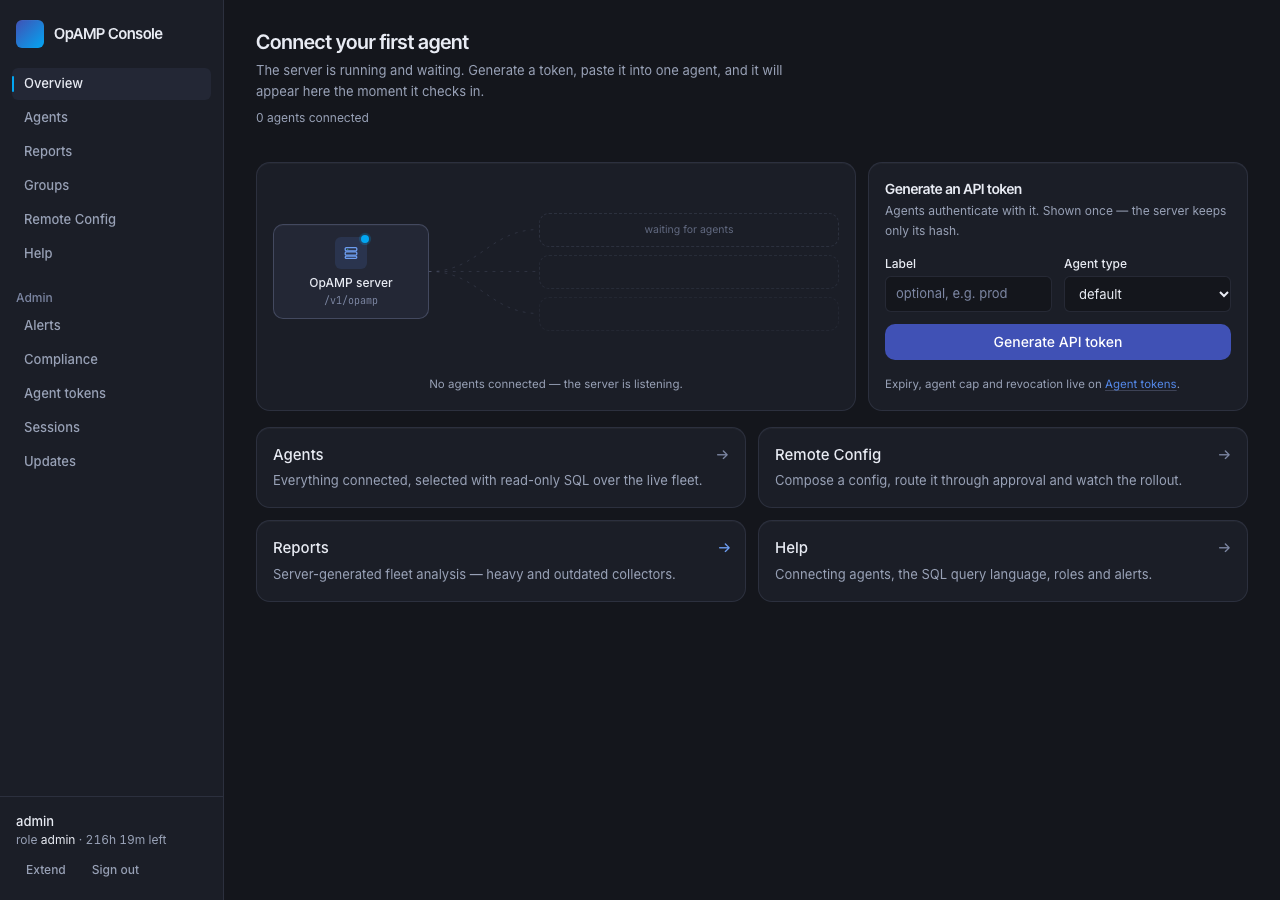
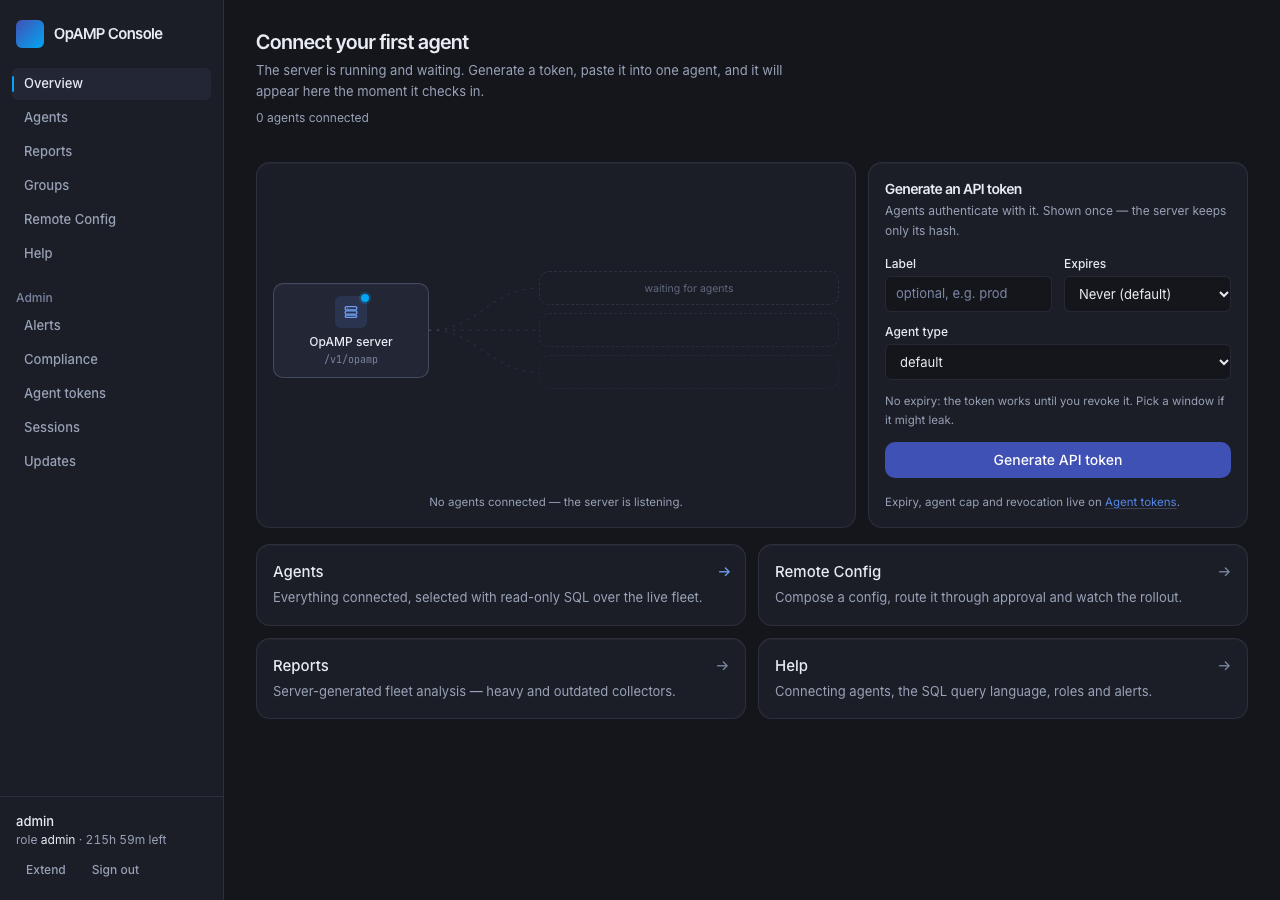
collector: fix config-with-telemetry for the current collector + docker
Reverts the unrequested new config file (the previous commit) and fixes the
existing one instead, keeping the agent's identity and pipelines as they were:

- endpoints read ${env:OPAMP_SERVER_URL:-host.docker.internal...} and
  ${env:OPAMP_METRICS_URL:-...} so the container works with no setup and a
  native run overrides both for 127.0.0.1
- receivers bind 0.0.0.0:4347/4348 so published ports reach them
- filelog -> file_log (0.165 deprecation) reading /var/log/collector/file.log
- drop keys this collector rejects: capabilities.accepts_restart_command,
  protocols.http.transport, idle_timeout, keep_alives_enabled

Validated with otelcol-contrib validate (0.165.0) and run end-to-end: the
agent connects, reports healthy, no warnings.

Overview quickstart mint form: expiry picker whose default option reads
'Never (default)', a hint line explaining what no expiry means, and the
minted card states 'Expires <date>'. e2e covers the default and a chosen
window. Also de-races the nav not-found spec (anonymous click-back lands on
/login by design).

diff --git a/web/src/components/ConnectFirstAgent.tsx b/web/src/components/ConnectFirstAgent.tsx
@@ -44,6 +44,9 @@ export function ConnectFirstAgent() {
 
   const [label, setLabel] = useState("");
   const [agentType, setAgentType] = useState("");
+  // Empty string = the server's own default (a token that never expires). The
+  // option text says so; an operator should not have to know the default.
+  const [expiresDays, setExpiresDays] = useState("");
   const [minted, setMinted] = useState<MintedToken | null>(null);
   const [mintError, setMintError] = useState<string | null>(null);
   const [checking, setChecking] = useState(false);
@@ -53,6 +56,7 @@ export function ConnectFirstAgent() {
       mintFleetToken({
         label: label.trim() || undefined,
         agent_type: agentType || undefined,
+        expires_in_days: expiresDays ? Number(expiresDays) : undefined,
       }),
     onSuccess: (result) => {
       setMinted(result);
@@ -104,21 +108,43 @@ export function ConnectFirstAgent() {
               />
             </label>
             <label className="flex flex-col gap-1 text-xs">
-              <span className="font-medium">Agent type</span>
+              <span className="font-medium">Expires</span>
               <select
-                value={agentType}
-                onChange={(e) => setAgentType(e.target.value)}
+                value={expiresDays}
+                onChange={(e) => setExpiresDays(e.target.value)}
                 className="field"
               >
-                <option value="">default</option>
-                {(types.data?.types ?? []).map((t) => (
-                  <option key={t.name} value={t.name}>
-                    {t.display_name}
-                  </option>
-                ))}
+                <option value="">Never (default)</option>
+                <option value="1">In 1 day</option>
+                <option value="7">In 7 days</option>
+                <option value="30">In 30 days</option>
+                <option value="90">In 90 days</option>
+                <option value="365">In 365 days</option>
               </select>
             </label>
           </div>
+
+          <label className="flex flex-col gap-1 text-xs">
+            <span className="font-medium">Agent type</span>
+            <select
+              value={agentType}
+              onChange={(e) => setAgentType(e.target.value)}
+              className="field"
+            >
+              <option value="">default</option>
+              {(types.data?.types ?? []).map((t) => (
+                <option key={t.name} value={t.name}>
+                  {t.display_name}
+                </option>
+              ))}
+            </select>
+          </label>
+
+          <p className="text-[11.5px] leading-relaxed text-[var(--color-muted)]">
+            {expiresDays
+              ? `This token stops working in ${expiresDays} day${expiresDays === "1" ? "" : "s"}.`
+              : "No expiry: the token works until you revoke it. Pick a window if it might leak."}
+          </p>
 
           <Button type="submit" variant="primary" size="lg" disabled={mint.isPending || !canMint}>
             {mint.isPending ? "Generating…" : "Generate API token"}
@@ -151,7 +177,10 @@ export function ConnectFirstAgent() {
             </pre>
             <p className="mt-2 text-[11.5px] text-[var(--color-muted)]">
               Agents connect to{" "}
-              <code className="text-[var(--color-text)]">{minted.endpoint}</code>
+              <code className="text-[var(--color-text)]">{minted.endpoint}</code>.{" "}
+              {minted.expires_at
+                ? `Expires ${minted.expires_at.slice(0, 10)}.`
+                : "No expiry — revoke it when you are done."}
             </p>
           </div>
 

diff --git a/web/e2e/quickstart.spec.ts b/web/e2e/quickstart.spec.ts
@@ -30,10 +30,25 @@ test("an empty fleet lands on the quickstart with the token form inline", async 
   await expect(graphic.getByText("Server", { exact: false }).first()).toBeVisible();
   await expect(page.getByText("No agents connected — the server is listening.")).toBeVisible();
 
-  // The point of the page: mint without leaving it.
+  // The point of the page: mint without leaving it — and the expiry default
+  // is named, not implied.
   await expect(page.getByRole("button", { name: "Generate API token" })).toBeVisible();
   await expect(page.getByLabel("Label")).toBeVisible();
   await expect(page.getByLabel("Agent type")).toBeVisible();
+  const expires = page.getByLabel("Expires");
+  await expect(expires).toHaveValue("");
+  await expect(expires.getByRole("option", { name: "Never (default)" })).toHaveCount(1);
+  await expect(page.getByText("No expiry: the token works until you revoke it.")).toBeVisible();
+});
+
+test("the expiry choice is sent and shown back on the minted token", async ({ page }) => {
+  await page.getByLabel("Expires").selectOption("30");
+  await expect(page.getByText("This token stops working in 30 days.")).toBeVisible();
+  await page.getByRole("button", { name: "Generate API token" }).click();
+  await expect(page.getByText("Copy it now — it is not shown again.")).toBeVisible();
+  // The mock honours `expires_in_days`: the minted card states the date rather
+  // than leaving the operator to remember what they picked.
+  await expect(page.getByText(/Expires \d{4}-\d{2}-\d{2}\./)).toBeVisible();
 });
 
 test("minting shows the token once, with its snippet and a live wait", async ({ page }) => {

diff --git a/web/e2e/nav.spec.ts b/web/e2e/nav.spec.ts
@@ -105,10 +105,21 @@ test("the Overview dashboard shows the fleet hero and activity strip", async ({ 
 });
 
 test("unknown URLs render the not-found page", async ({ page }) => {
+  // Signed in first: an *anonymous* visitor who follows "Back to Overview" is
+  // bounced to /login by the 401 handler, which made this assertion a race
+  // (the URL is "/" for one tick). The link's destination is what is under
+  // test, so give the session that can stay on it.
+  await page.goto("/login");
+  await page.getByLabel("Name").fill("admin");
+  await page.getByLabel("Password").fill(CORRECT);
+  await page.getByRole("button", { name: "Sign in" }).click();
+  await expect(page).toHaveURL("/");
+
   await page.goto("/definitely-not-a-page");
   await expect(
     page.getByRole("heading", { level: 1, name: "Page not found" }),
   ).toBeVisible();
   await page.getByRole("link", { name: "Back to Overview" }).click();
   await expect(page).toHaveURL("/");
+  await expect(page.getByRole("heading", { level: 1, name: "Overview" })).toBeVisible();
 });

diff --git a/memory.md b/memory.md
@@ -84,7 +84,7 @@
 - Whenever there are UI changes, take screenshots and add them to the README so users always see the latest and greatest UI
 - **New-UI stage 5 (agents, 2026-11-22)**: the browser fleet views are type-aware from `GET /agent/types` profiles — telemetry panels and the component inventory render from `panels`/`has_components`, never hard-coded collector fields. Primitives for later stages: `web/src/lib/deliveryStatus.ts` (the server's status vocabulary → tokens, never invent states), `SqlSearch` + `sqlSuggestions` (one-box SQL search; suggestions only from values the fleet reports), `configText.configObjects` (display-only; `<redacted>` stays opaque). Screens: `docs/screenshots/console-agents-{list,agent-detail}.png`. Server-side selection only — the list never filters in the browser (#132).
 - **New-UI stage 7 (read pages, 2026-12-01)**: Reports renders the server's markdown (`src/api/reports.ts`) with a dependency-free renderer (`web/src/lib/markdown.ts`, XSS-safe by construction — never a real markdown dep for agent-supplied text). Groups = full saved-selection CRUD in `web/src/api/groups.ts` (config.ts's read-only copies were deleted; one `['groups']` cache key). Offered reports derive from the fleet's profiles (`offeredReports`), never page literals. Screens: `docs/screenshots/console-{groups,reports}.png`.
-- **Zero-agent quickstart (2027-01)**: `/` has two shapes — an empty fleet shows `web/src/components/FleetTopology.tsx` (server + fleet graphic; connectors come from *measured* DOM edges via `web/src/lib/topology.ts`, so they meet the nodes at any width) beside `web/src/components/ConnectFirstAgent.tsx`, which mints the token inline (no trip to Agent tokens) and then shows the once-only token, endpoint, snippet, and a 5s poll that announces the first agent and collapses into the connected Overview. Connectors draw themselves in with a travelling spark (CSS only, killed by `prefers-reduced-motion`). Zero-fleet mock variant: `localStorage["opamp-mock-empty-fleet"]`; e2e `web/e2e/quickstart.spec.ts`; screens `docs/screenshots/console-overview-{empty,token}.png` + refreshed `console-overview.png`.
+- **Zero-agent quickstart (2027-01)**: `/` has two shapes — an empty fleet shows `web/src/components/FleetTopology.tsx` (server + fleet graphic; connectors come from *measured* DOM edges via `web/src/lib/topology.ts`, so they meet the nodes at any width) beside `web/src/components/ConnectFirstAgent.tsx`, which mints the token inline (label, agent type, and an expiry picker that names "Never (default)" rather than hiding the server default; no trip to Agent tokens) and then shows the once-only token, endpoint, snippet, and a 5s poll that announces the first agent and collapses into the connected Overview. Connectors draw themselves in with a travelling spark (CSS only, killed by `prefers-reduced-motion`). Zero-fleet mock variant: `localStorage["opamp-mock-empty-fleet"]`; e2e `web/e2e/quickstart.spec.ts`; screens `docs/screenshots/console-overview-{empty,token}.png` + refreshed `console-overview.png`.
 - Before taking screenshots: start a collector (`~/tools/otelcol-contrib --config=collector/config.yaml`). Wait 5 seconds then start the UI. Disregard the initial collector error logs. That's expected as the collector cannot connect.
 
 ## Dependencies

diff --git a/web/README.md b/web/README.md
@@ -108,13 +108,15 @@ second dev server, and `tools/screenshot-quickstart.mjs` captures all three):
 `/` is the only page with two shapes, chosen by `GET /agents`:
 
 - **Fleet empty** → the server/fleet graphic beside `ConnectFirstAgent`: label
-  (optional) + agent type, then one primary **Generate API token**. The mint is
-  the server's own `POST /agent-tokens`, so the response carries the once-only
-  token, the `endpoint` and the paste-ready `collector_snippet` for the chosen
-  profile — the page holds no snippet copy of its own. After minting, the panel
-  polls `GET /agents` every 5s (and offers **Check again**) and announces the
-  first agent by name; when one connects, the panel goes away and the page
-  becomes the connected Overview.
+  (optional), agent **type**, and an **expiry** picker whose default option is
+  literally "Never (default)" — the server's own default, stated rather than
+  implied (with a hint line spelling out what no expiry means). Then one primary
+  **Generate API token**. The mint is the server's own `POST /agent-tokens`, so
+  the response carries the once-only token, its expiry, the `endpoint` and the
+  paste-ready `collector_snippet` for the chosen profile — the page holds no
+  snippet copy of its own. After minting, the panel polls `GET /agents` every 5s
+  (and offers **Check again**) and announces the first agent by name; when one
+  connects, the panel goes away and the page becomes the connected Overview.
 - **Fleet connected** → the same graphic as a compact hero above the counts.
 
 `components/FleetTopology.tsx` draws one line per agent into a **measured**
